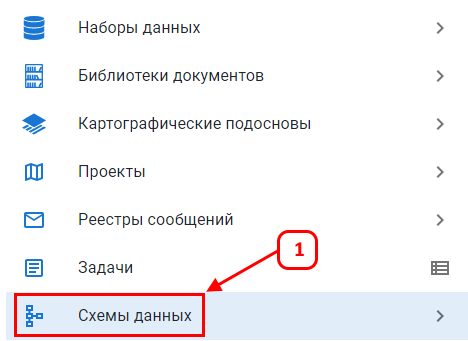
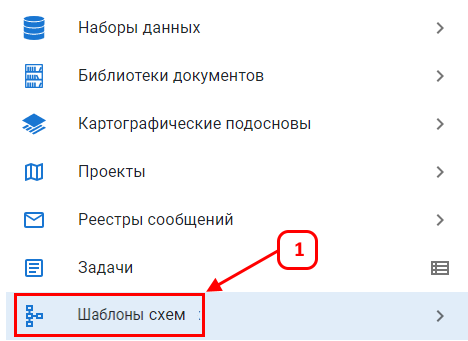
Объединенный запрос на вытягивание 356: chore(ui:help) update help for schemas 118
chore(ui:help) update help for schemas
Связанные рабочие элементы: #1700

Changed region(s): [[0.1496, 0.9091, 0.4188, 0.9677]]

diff --git a/portal-ui/src/assets/help/5dataManagement/16dataSchemas/16dataSchemas.html b/portal-ui/src/assets/help/5dataManagement/16dataSchemas/16dataSchemas.html
@@ -1,12 +1,14 @@
 <p>
-  <b>Схемы данных</b>
+  <b>Шаблоны схем</b>
 </p>
-<p>Схема данных — это техническое описание содержимого слоев или библиотек в формате JSON.</p>
-<p>Данный раздел <b>(1)</b> предназначен для просмотра, создания или редактирования схем, из которых в дальнейшем создаются векторные слои или библиотеки.</p>
+<p>Данный раздел <b>(1)</b> предназначен для просмотра или создания шаблонов данных, из которых в дальнейшем создаются векторные слои или библиотеки.</p>
 <center><img src="16dataSchemas_1.png" alt="" /></center>
-<p>В левой части интерфейса содержится список доступных к выбору схему.</p>
-<p>Схемы можно фильтровать <b>(2)</b> по уникальному идентификатору и названию схемы</p>
-<p>Кнопка <b>(3)</b> позволяет создать новую схему данных в формате JSON.</p>
+<p>В левой части интерфейса содержится список доступных к выбору шаблонов данных.</p>
+<p>Шаблоны данных можно фильтровать <b>(2)</b> по уникальному идентификатору и наименованию.</p>
+<p>Кнопка <b>(3)</b> позволяет создать новый шаблон в формате JSON.</p>
 <center><img src="16dataSchemas_3.png" alt="" /></center>
-<p>В правой части монитора для выбранной схемы отображаются все атрибуты, используемые в этой схеме.</p>
+<p>Перед свойствами шаблона указана основная информация о нем.</p>
+<center><img src="16dataSchemas_4.png" alt="" /></center>
+<p>В правой части экрана для выбранного шаблона данных отображаются все атрибуты, используемые в нем.</p>
 <center><img src="16dataSchemas_2.png" alt="" /></center>
+

diff --git a/portal-ui/src/assets/help/5dataManagement/21editSchemas/21editSchemas.html b/portal-ui/src/assets/help/5dataManagement/21editSchemas/21editSchemas.html
@@ -1,0 +1,8 @@
+<p><b>Редактирование в шаблоне схем</b></p>
+<p>Редактирование шаблона схем позволяет настроить представление информации и сделать ее более удобной и понятной для пользователя.</p>
+<p>Шаблон векторной таблицы и библиотеки документов имеют отдельную схему JSON.</p>
+<center><img src="21editSchemas_1.png" alt="" /></center>
+<p>Откройте окно редактирования схемы. (1).</p>
+<center><img src="21editSchemas_3.png" alt="" /></center>
+<p>В окне редактирования нажмите <b>(2)</b> для изменения параметров схемы.</p>
+<p>После внесения необходимых изменений, сохраните шаблон схемы. Сохраненные изменения в шаблоне схемы будут применены только к новым слоям, не к существующим данным.</p>

diff --git a/portal-ui/src/assets/help/5dataManagement/17visualSchemas/17visualSchemas.html b/portal-ui/src/assets/help/5dataManagement/17visualSchemas/17visualSchemas.html
@@ -1,7 +1,7 @@
 <p>
     <b>Свойства схем</b>
 </p>
-<p>Свойства схемы — это визуализированные правила, форматирования данных необходимые для отображения</p>
+<p>Свойства схемы — это визуализированные правила форматирования для отображения данных</p>
 <center><img src="17visualSchemas_1.png" alt="" /></center>
 <p>
     В свойствах схемы отображается тип свойства (1), название свойства (2), уникальный идентификатор (3) и дополнительные свойства поля (4).
